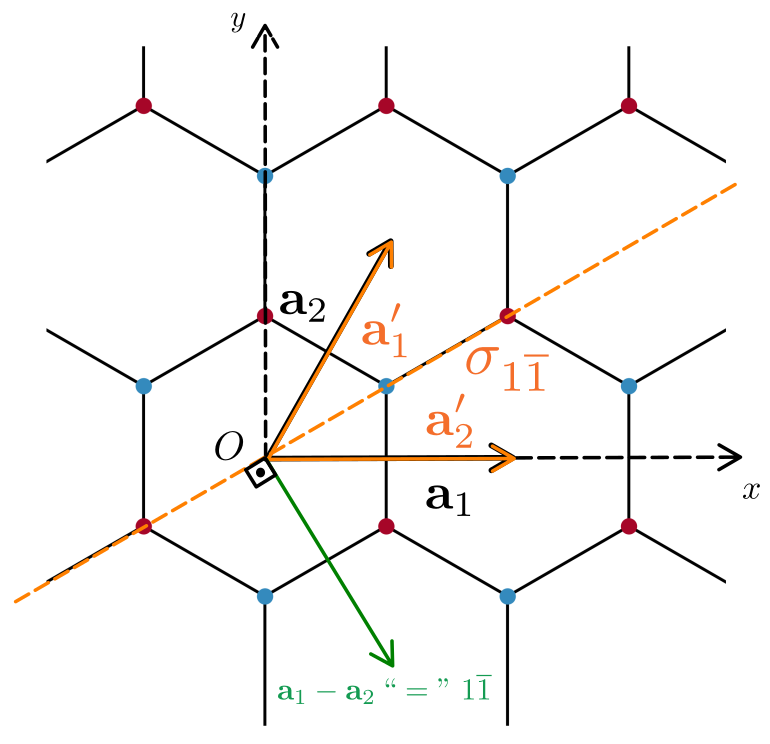
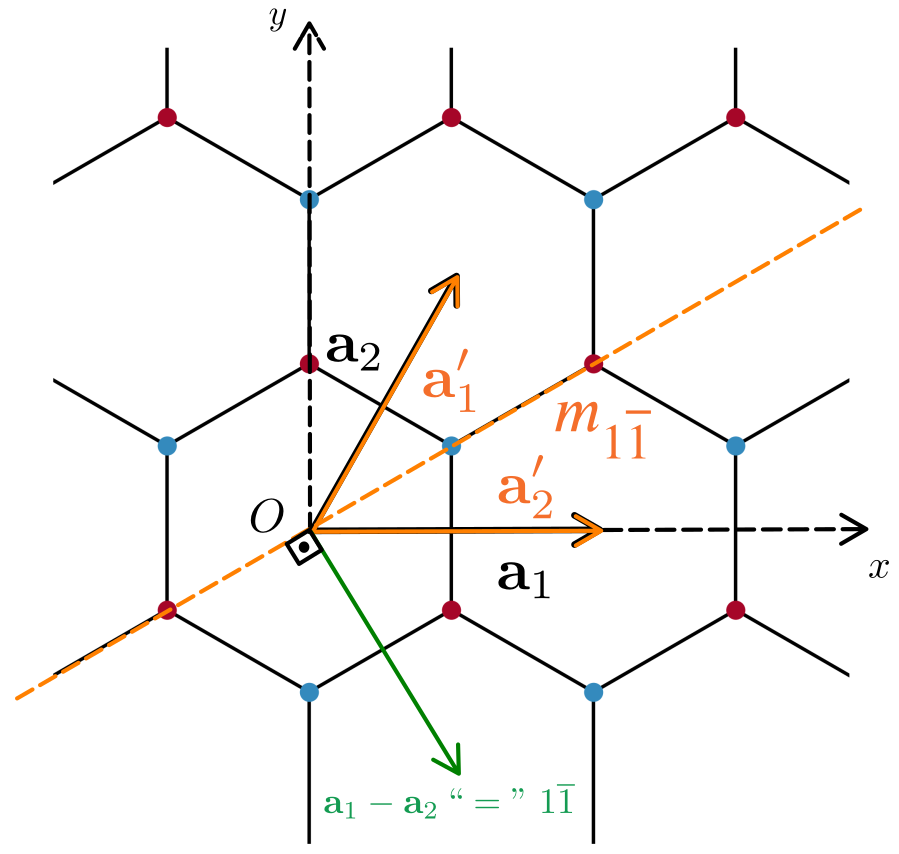
Passando corrigindo o texto

diff --git a/latex/3-wannier.tex b/latex/3-wannier.tex
@@ -14,43 +14,45 @@
 \chapter{Topological Quantum Chemistry}
 %%%%%%%%%%%%%%%%%%%%%%%%%%%%%%%%%%%%%%%%%%%%%%%%%%%%%%%%%%%%%%%%%%%%%%%%%%%%%%%%%%%%%%%%%%%%%%%%%%
 
-In this chapter we will introduce the formalism of Topological Quantum Chemistry (TQC) \cite{topological_quantum_chemistry2017, building_blocks2018, lectures_tms2017}. Among many things, this theory mathematically defines when a electronic band is topological, which is a concept intrinsically associated to the construction of Wannier orbitals for a tight-binding model. The application of these concepts play a major role to motivate and construct a fully symmetric interacting MATBG model.
+In this chapter we will introduce the formalism of Topological Quantum Chemistry (TQC) \cite{topological_quantum_chemistry2017, building_blocks2018, lectures_tms2017}. Among many things, this theory mathematically defines when a electronic band is topological, which is a concept intrinsically associated to the construction of Wannier orbitals within a tight-binding model. The principles of TQC play a pivotal role in motivating and developing a fully symmetric interacting model for Magic-Angle Twisted Bilayer Graphene (MATBG).
 
-Since this theory involves numerous mathematical definitions and concepts, we will consistently use the example of monolayer graphene, which belongs to wallpaper group \#17 and the corresponding space group $P6mm$ ($\#183$ in international tables).
+Given the numerous mathematical definitions and concepts in TQC, we will use monolayer graphene as a consistent example. Graphene's underlying honeycomb lattice belongs to the wallpaper group \#17, with its corresponding space group being $P6mm$ (\#183 in the International Tables for Crystallography). The generators of this wallpaper group are depicted in Figure \ref{fig:generators_P6mm}.
 \begin{figure}[H]
 \centering
 \includegraphics[width=0.32\linewidth]{fig/honeycomb_C3.png}\hfill
 \includegraphics[width=0.32\linewidth]{fig/honeycomb_C2.png}\hfill
 \includegraphics[width=0.32\linewidth]{fig/honeycomb_sigma.png}
-\caption{Generators of the point group \(\{C_3, C_2, m_{1\bar{1}}\}\) for the space group \(P6mm\) of the honeycomb lattice, with the coordinate system origin $O$ located at a hexagon's center. \textbf{CORRIGIR} $\sigma_{1\cc{1}} = m_{1\cc{1}}$.}
+\caption{Generators \(\{C_3, C_2, m_{1\bar{1}}\}\) of the point group $D_6$ for the wallpaper group \#17 of the honeycomb lattice, with the coordinate system origin $O$ located at a hexagon's center.}
 \label{fig:generators_P6mm}
 \end{figure}
 
-Following Figure \ref{fig:generators_P6mm}, we use the basis $\mathcal{B} = \{\a_1 = a \vu{x}, \a_2 = \frac{a}{2} \vu{x} + \frac{a\sqrt{3}}{2} \vu{y}\}$. In this basis, the generators \(\{C_3, C_2, m_{1\bar{1}}\}\) for the point group $6mm$ act like:
+Following Figure \ref{fig:generators_P6mm}, we use the basis $\mathcal{B} = \qty{\a_1 = a \vu{x}, \a_2 = \frac{a}{2} \vu{x} + \frac{a\sqrt{3}}{2} \vu{y}}$, where $a = \abs{\a_{1,2}}$. In this basis, the generators \(\{C_3, C_2, m_{1\bar{1}}\}\) for the point group $6mm$ act like:
 \begin{equation} \label{eq:generators_P6mm}
 \begin{cases}
-\; C_3 \a_1 = -\a_1+\a_2 \\
-\; C_3 \a_2 = -\a_1
+\; C_3 \a_1 = -\a_1+\a_2, \\
+\; C_3 \a_2 = -\a_1,
 \end{cases}
 \quad
 \begin{cases}
-\; C_2\a_1 = -\a_1 \\
-\; C_2\a_2 = -\a_2
+\; C_2\a_1 = -\a_1, \\
+\; C_2\a_2 = -\a_2,
 \end{cases}
 \quad
 \begin{cases}
-\; m_{1\bar{1}} \a_1 = \a_2 \\
-\; m_{1\bar{1}} \a_2 = \a_1
+\; m_{1\bar{1}} \a_1 = \a_2, \\
+\; m_{1\bar{1}} \a_2 = \a_1.
 \end{cases}
 \end{equation}
 
-The 6-fold rotation is given by $\{C_6 \mid 0\} = \{C_2 \mid 0\} \{C_3 \mid 0\}^{-1}$, therefore
+The 6-fold rotation is given by $\{C_6 \mid 0\} = \{C_2 \mid 0\} \{C_3 \mid 0\}^{-1}$, and its action is
 \begin{equation} \label{eq:C6_rotation_P6mm}
 \begin{cases}
-\; C_6 \a_1 = \a_2 \\
-\; C_6 \a_2 = -\a_1 + \a_2
+\; C_6 \a_1 = \a_2, \\
+\; C_6 \a_2 = -\a_1 + \a_2.
 \end{cases}
 \end{equation}
+
+In the following section, we will present a series of mathematical definitions, consistently using the honeycomb lattice as a guiding example to illustrate and clarify the concepts.
 
 %%%%%%%%%%%%%%%%%%%%%%%%%%%%%%%%%%%%%%%%%%%%%%%%%%%%%%%%%%%%%%%%%%%%%%%%%%%%%%%%%%%%%%%%%%%%%%%%%%
 \section{Definitions}
@@ -115,24 +117,24 @@ G_\q = \{g \mid g \q = \q\} \subseteq G.
 Let us identify the site-symmetry groups of points $\q_1$, $\q_2$, $\q_3$, $\q_4$ and $\q_5$.
 
 \begin{itemize}
-\item The point $\textcolor{orange}{\spadesuit} = \q_5 = \qty(\frac{1}{4}, 0)$ has a site-symmetry group \(G_{\q_5}\) with only the identity $\{E \mid 0\}$ and $\{m_{x} \mid 0\}$ (reflection by the $x$-axis) as symmetry elements. This makes $G_{\q_5}$ isomorphic to $D_1$.
+\item The point $\textcolor{orange}{\spadesuit} = \q_5 = \qty(\frac{1}{4}, 0)$ has a site-symmetry group \(G_{\q_5}\) with the identity $\{E \mid 0\}$ and $\{m_{x} \mid 0\}$ (reflection by the $x$-axis) as symmetry elements. This makes $G_{\q_5}$ isomorphic to $D_1$ (or $C_s$).
 \begin{equation} \label{eq:site-symmetry-q5}
-\{m_{x} \mid 0\} \q_3 = m_x \qty(\frac{1}{4} \a_1) = m_x \qty(\frac{a}{4} \vu{x}) = \frac{a}{4} \vu{x} = \frac{1}{4} \a_1 = \q_5.
+\{m_{x} \mid 0\} \q_5 = m_x \qty(\frac{1}{4} \a_1) = m_x \qty(\frac{a}{4} \vu{x}) = \frac{a}{4} \vu{x} = \frac{1}{4} \a_1 = \q_5.
 \end{equation}
 
 
-\item The point \(\textcolor{magenta}{\varheartsuit} = \q_4 = \qty(\frac{1}{6}, \frac{1}{6})\) has a site-symmetry group \(G_{\q_4}\) with only the identity $\{E \mid 0\}$ and $\{m_{1\cc{1}} \mid 0\}$ as symmetry elements. This also makes $G_{\q_4}$ isomorphic to $D_1$.
+\item The point \(\textcolor{magenta}{\varheartsuit} = \q_4 = \qty(\frac{1}{6}, \frac{1}{6})\) has a site-symmetry group \(G_{\q_4}\) with only the identity $\{E \mid 0\}$ and $\{m_{1\cc{1}} \mid 0\}$ as symmetry elements. This also makes $G_{\q_4}$ isomorphic to $D_1$ (or $C_s$).
 \begin{align} \label{eq:site-symmetry-q4}
 \{m_{1\cc{1}} \mid 0\} \q_4 &= m_{1\cc{1}}\qty(\frac{1}{6} \a_1 + \frac{1}{6} \a_2) = \frac{1}{6} \a_2 + \frac{1}{6} \a_1 = \q_4.
 \end{align}
 
-\item The point \(\textcolor{green}{\bigstar} = \q_3 = \qty(\frac{1}{2}, 0)\) has a site-symmetry group \(G_{\q_3}\), which is isomorphic to \(D_2\). We can choose its generators to be $\{C_2 \mid \a_1\}$ and $\{m_{x}\mid 0\}$.
+\item The point \(\textcolor{green}{\bigstar} = \q_3 = \qty(\frac{1}{2}, 0)\) has a site-symmetry group \(G_{\q_3}\), which is isomorphic to \(D_2\) (or $C_{2v}$). We can choose its generators to be $\{C_2 \mid \a_1\}$ and $\{m_{x}\mid 0\}$.
 \begin{align} \label{eq:site-symmetry-q3}
 \{C_2 \mid \a_1\} \q_3 &= C_2 \q_3 + \a_1 = -\q_3 + \a_1 = -\frac{1}{2} \a_1 + \a_1 = \q_3, \\
 \{m_{x} \mid 0\} \q_3 &= m_x \qty(\frac{1}{2} \a_1) = m_x \qty(\frac{a}{2} \vu{x}) = \frac{1}{2} \a_1 = \q_3.
 \end{align}
 
-\item The point $\textcolor{blue}{\mdblksquare} = \q_2 = \qty(\frac{1}{3}, \frac{1}{3})$ has site-symmetry group $G_{\q_2}$ isomorphic to $D_3$, and its generators are $\{C_3 \mid \a_1\}$ and $\{m_{1\cc{1}} \mid 0\}$.
+\item The point $\textcolor{blue}{\mdblksquare} = \q_2 = \qty(\frac{1}{3}, \frac{1}{3})$ has site-symmetry group $G_{\q_2}$ isomorphic to $D_3$ (or $C_{3v}$), and its generators are chosen $\{C_3 \mid \a_1\}$ and $\{m_{1\cc{1}} \mid 0\}$.
 \begin{align} \label{eq:site-symmetry-q2}
 \{C_3 \mid \a_1\} \q_2 &= C_3 \qty(\frac{1}{3} \a_1 + \frac{1}{3} \a_2) + \a_1 = \frac{1}{3} \qty(-2\a_1 + \a_2) + \a_1 =
 \frac{1}{3} (\a_1 + \a_2) = \q_2, \\
@@ -140,7 +142,7 @@ Let us identify the site-symmetry groups of points $\q_1$, $\q_2$, $\q_3$, $\q_4
 \frac{1}{3} \a_2 + \frac{1}{3} \a_1 = \q_2.
 \end{align}
 
-\item The point \(\textcolor{red}{\varhexagonblack} = \q_1 = (0,0)\) has a site-symmetry group \(G_{\q_1}\) isomorphic to \(D_6\), with generators \(\{C_3 \mid 0\}\), \(\{C_2 \mid 0\}\), and \(\{m_{1\cc{1}} \mid 0\}\). Since \(\q_1 = \0\) is the origin, it is evident that the action of any generator \(g\) on \(\q_1\) leaves it unchanged:
+\item The point \(\textcolor{red}{\varhexagonblack} = \q_1 = (0,0)\) has a site-symmetry group \(G_{\q_1}\) isomorphic to \(D_6\) (or $C_{6v}$), with generators \(\{C_3 \mid 0\}\), \(\{C_2 \mid 0\}\), and \(\{m_{1\cc{1}} \mid 0\}\). Since \(\q_1 = \0\) is the origin, it is evident that the action of any generator \(g\) on \(\q_1\) leaves it unchanged:
 \begin{equation} \label{eq:site-symmetry-q1}
 g \q_1 = \0 = \q_1, \quad \text{for all } g \in G_{\q_1}.
 \end{equation}
@@ -149,7 +151,7 @@ g \q_1 = \0 = \q_1, \quad \text{for all } g \in G_{\q_1}.
 \end{example}
 
 \begin{definition}[\textbf{Wyckoff position}] \label{def:wyckpos}
-A \textit{Wyckoff position} \( \q \) refers to any position within the unit cell of the crystal. Some Wyckoff positions are \textit{special}, meaning they are left invariant by certain symmetry operations (other than the identity $\{E \mid 0\}$). The \textit{multiplicity} $n$ of a Wyckoff position is the number of distinct positions in its orbit within the same unit cell, $n = \abs{\text{Orb}(q)}$. A Wyckoff position is generally denoted as \( n\ell \), where \( \ell \) is an alphabetical label that designates the increasing size of the site-symmetry group associated with the position.
+A \textit{Wyckoff position} \( \q \) refers to any (real space) position within the unit cell of the crystal. Some Wyckoff positions are \textit{special}, meaning they are left invariant by certain symmetry operations (other than the identity $\{E \mid 0\}$). The \textit{multiplicity} $n$ of a Wyckoff position is the number of distinct positions in its orbit within the same unit cell, $n = \abs{\text{Orb}(q)}$. A Wyckoff position is generally denoted as \( n\ell \), where \( \ell \) is an alphabetical label that designates the increasing size of the site-symmetry group associated with the position.
 \end{definition}
 
 \begin{example} \label{ex:wyckpos_q1q2q3q4q5}
@@ -174,7 +176,7 @@ For the points $\q_1 = \textcolor{red}{\varhexagonblack}$, $\q_2 = \textcolor{bl
 \text{Orb}(\q_5) &= \qty{\{E\mid 0\} \q_5, \{C_6\mid 0\} \q_5, \{C_6^2\mid 0\} \q_5, \{C_6^3\mid 0\} \q_5, \{C_6^4\mid 0\} \q_5, \{C_6^5\mid 0\} \q_5}, \label{eq:orbit_q5} \nonumber \\
                  &= \qty{\qty(\frac{1}{4},0),\qty(0,\frac{1}{4}),\qty(-\frac{1}{4},\frac{1}{4}),\qty(-\frac{1}{4},0),\qty(0,-\frac{1}{4}),\qty(\frac{1}{4},-\frac{1}{4})}.
 \end{align}
-For example, in Equation \ref{eq:orbit_q3}, the coset representatives of $G_{\q_3}$ are $g_1 = \{E\mid 0\}$, $g_2 = \{C_6\mid 0\}$, and $g_3 = \{C_6^2\mid 0\}$.
+For example, in Equation \ref{eq:orbit_q3}, the coset representatives of $G_{\q_2}$ are $g_1 = \{E\mid 0\}$ and $g_2 = \{C_6\mid 0\}$.
 \end{example}
 
 \begin{lemma}[\textbf{Coset decomposition}] \label{lemma:cosetdecomp_wyckoff}
@@ -184,7 +186,7 @@ G = \bigcup_\alpha g_\alpha (G_{\q} \ltimes \Z^d),
 \end{equation}
 where \( \Z^d \) represents the group of lattice translations, \(\{E\mid \t\}\), with \(\t = \sum_{i=1}^d n_i \a_i\), where \( n_i \in \Z \) and \(\{\a_i\}\) are the primitive lattice vectors in \( d \) dimensions.
 
-In practice, this decomposition means that for any \( g \in G \), we can write \( g = \{E \mid \t\} g_\alpha h \), for some translation \(\t\), coset representative \( g_\alpha \), and \( h \in G_\q \). Applying \( \q \) to both sides:
+This decomposition means that for any \( g \in G \), we can write \( g = \{E \mid \t\} g_\alpha h \), for some translation \(\t\), coset representative \( g_\alpha \), and \( h \in G_\q \). Applying \( \q \) to both sides:
 \begin{equation} \label{eq:coset_decomp_translation_t_step1}
 g \q = \{E \mid \t\} g_\alpha h \q = \{E \mid \t\} g_\alpha \q = \{E \mid \t\} \q_\alpha = \q_\alpha + \t,
 \end{equation}
@@ -210,7 +212,7 @@ A site-symmetry group is \textit{non-maximal} if there exists a finite group $H 
 \end{definition}
 
 \begin{example} \label{ex:maximal_wyckpos_example}
-We have $G_{\q_4} \subset G_{\q_2}$ and $G_{\q_5} \subset G_{\q_3}$, therefore $\q_4$ and $\q_5$ are non-maximal Wyckoff positions. On the other hand, the Wyckoff positions $\q_1$, $\q_2$, $\q_3$ are maximal. \textbf{Do I prove this?}
+We have $<++> \simeq G_{\q_4} \subset G_{\q_2}$ and $G_{\q_5} \subset G_{\q_3}$, therefore $\q_4$ and $\q_5$ are non-maximal Wyckoff positions. On the other hand, the Wyckoff positions $\q_1$, $\q_2$, $\q_3$ are maximal. In fact, the only way to add an element to $G_{\q_1} \subseteq G$ is by adding lattice translations $\{E \mid \t\}$, which make it infinite. Since
 \end{example}
 
 %%%%%%%%%%%%%%%%%%%%%%%%%%%%%%%%%%%%%%%%%%%%%%%%%%%%%%%%%%%%%%%%%%%%%%%%%%%%%%%%%%%%%%%%%%%%%%%%%%
